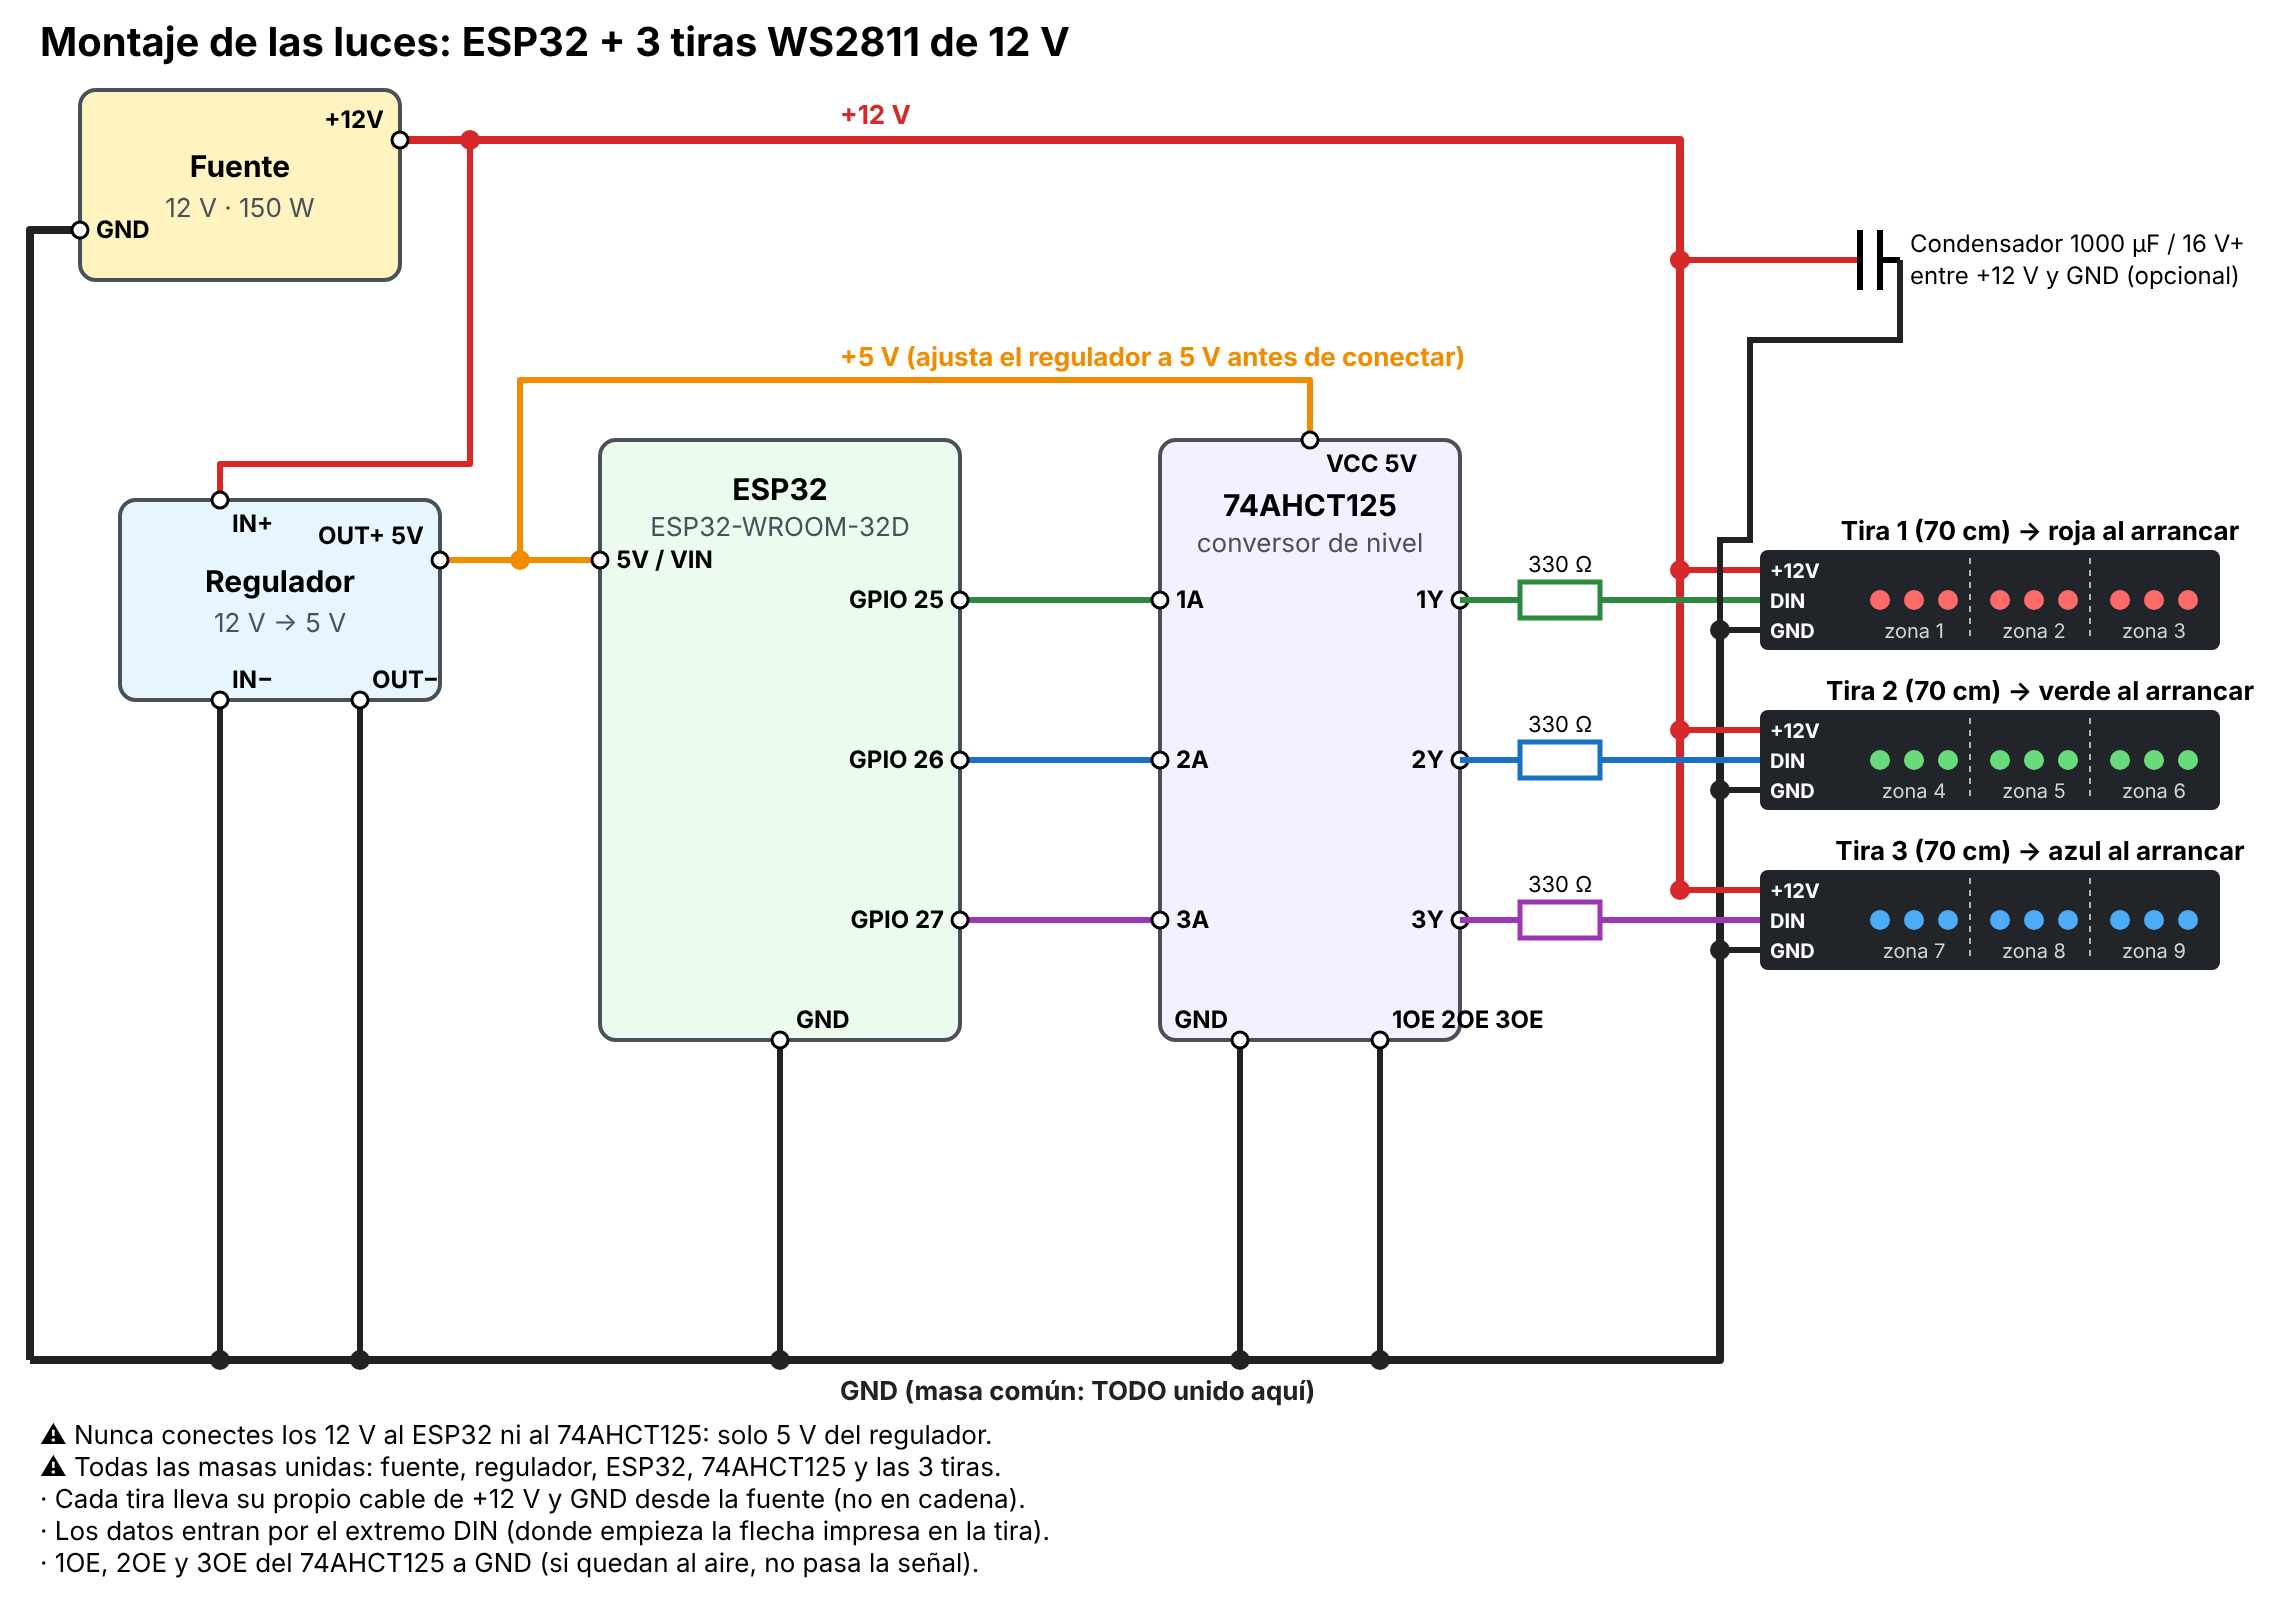
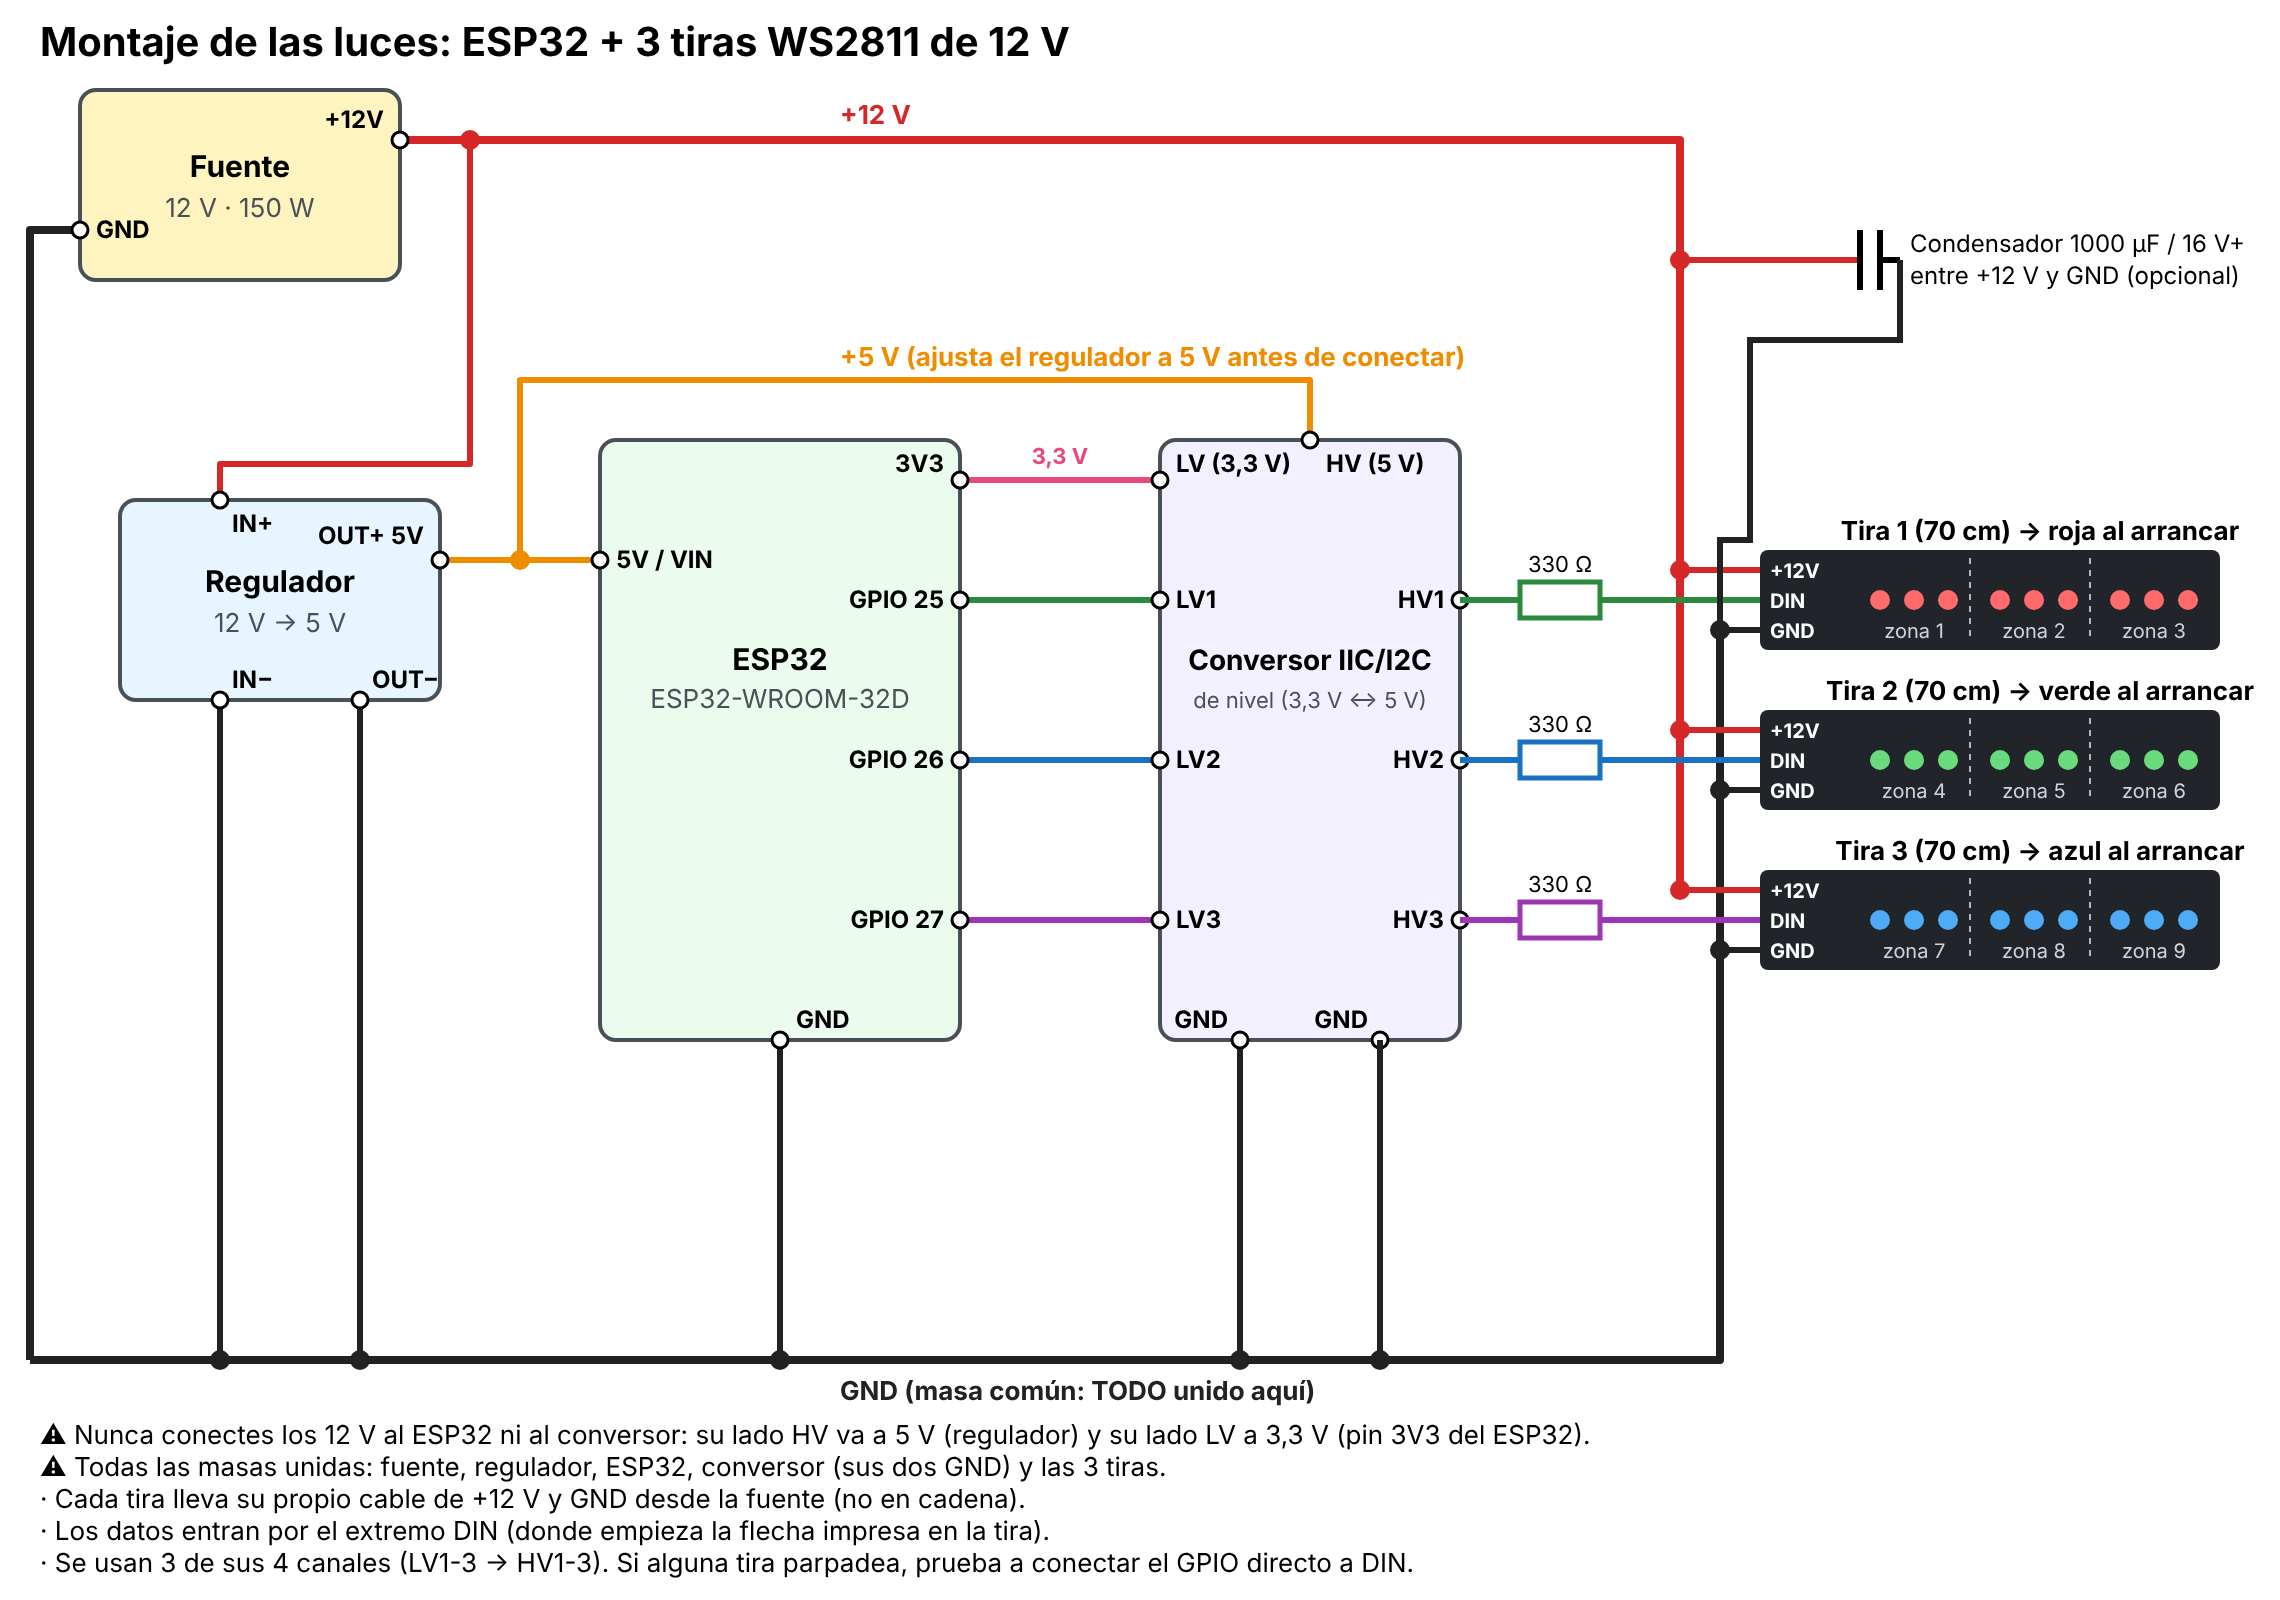
Esquema de montaje con el conversor de nivel IIC/I2C del usuario
Claude-Session: https://claude.ai/code/session_01NiDSfu3hTL4t65WKdkDbuk

diff --git a/CLAUDE.md b/CLAUDE.md
@@ -369,7 +369,7 @@ Trabajar en este orden. Las fases 1 y 2 no necesitan Rekordbox abierto.
 - Que la ruta ANLZ en memoria permite identificar el tema en master.db.
 - Direcciones de faders, EQ de graves, crossfader y deck master para esa versión. Fader del deck 1 hallado como **variable global** dentro de `rekordbox.exe` (`módulo+0x5a876c8`, f64, posición lineal 0..1): no necesita cadena de punteros; **confirmado estable tras reiniciar**. Fader del deck 2 en `módulo+0x5a876d0` (+8 bytes): los faders forman una tabla de f64 contiguos (decks 3 y 4 probablemente en `+0x5a876d8` y `+0x5a876e0`, sin confirmar). Para buscar controles vecinos (crossfader, EQ) se usa `python -m tools.offset_detect --watch DESDE HASTA`. BPM del deck 1 (cadena `0x58d38c8,0x0,0x2b0,0x1a0`) también confirmado tras reiniciar. EQ: tabla global de f64 (0..1, centro 0.5), 3 por deck en orden HI/MID/LOW, 0x18 bytes por deck: deck 1 HI `+0x58b3398`, MID `+0x58b33a0`, LOW `+0x58b33a8`; deck 2 HI `+0x58b33b0`, MID `+0x58b33b8`, LOW `+0x58b33c0` (confirmado con --watch; decks 3-4 previsiblemente LOW `+0x58b33d8` y `+0x58b33f0`, sin comprobar). BPM del deck 2: `0x58d38c8,0x8,0x2b0,0x1a0` (confirmado con `live`). Ruta ANLZ: deck 1 `0x59ff0a8,0x8,0x3f0`, deck 2 `0x59ff0a8,0x10,0x3f0` (lista de decks, 0x8 por deck; decks 3-4 previsiblemente 0x18 y 0x20). La del deck 1 (`0x59ff0a8,0x38,0x3f0`) apuntaba al tema ANTERIOR del deck (Rekordbox guarda ambos); se quitó y el asistente ahora pide volver a cargar el primer tema para distinguir la posición del tema actual. Posición: deck 1 `0x58d38c8,0x0,0x2b0,0x138`, deck 2 `0x58d38c8,0x8,0x2b0,0x138` (mismo objeto que el BPM; hallada con `--anchor bpm` + `--compare-decks`; f64 en segundos, confirmado con `--validate`). En la zona de los faders solo hay faders y gain. **Los faders globales son la posición del fader físico de la controladora**: si se mueven con el ratón o la controladora no está conectada, valen 0. El usuario mezcla siempre con la controladora, así que se da por bueno (no se busca la dirección del fader de pantalla); **confirmado funcionando en la ventana con la controladora**. La app usa la **posición** lineal del fader (no la ganancia logarítmica): `fader_zero_threshold` = 5 % del recorrido.
 - **Deck master: descartado.** El usuario no usa SYNC, así que el master no aporta; para saber qué tema suena se usa el deck con el fader más alto. `is_master` queda como campo opcional (no se avisa si falta).
-- Formato final de los comandos UDP y lista completa de efectos: implementado en la app, el simulador y el firmware (`docs/protocolo_luces.md`). **Firmware compilado, subido a la placa real (driver CP2102, COM3) y recibiendo paquetes UDP de la app.** **Hardware del usuario:** tiras **WS2811 de 12 V**, 70 cm cada una, fuente de 12 V / 150 W (sobra: 3 tiras ≈ 30 W). En WS2811 de 12 V cada chip = 1 píxel de 3 LEDs; el firmware usa `PIXELS_PER_STRIP` (por defecto 14 = 60 LEDs/m; **sin confirmar**) y reparte los píxeles entre las 3 secciones lo más igual posible (14 → 4+5+5). Pines por defecto 25/26/27 (el usuario no los tenía decididos). ESP32 alimentado con conversor 12→5 V, masa común. Falta confirmar nº de píxeles y `COLOR_ORDER` (barrido de arranque) y probar con las tiras. Falta comprobar en real los tipos de frase y la lectura de `PWV7`/`PWV5` con pyrekordbox.
+- Formato final de los comandos UDP y lista completa de efectos: implementado en la app, el simulador y el firmware (`docs/protocolo_luces.md`). **Firmware compilado, subido a la placa real (driver CP2102, COM3) y recibiendo paquetes UDP de la app.** **Hardware del usuario:** tiras **WS2811 de 12 V**, 70 cm cada una, fuente de 12 V / 150 W (sobra: 3 tiras ≈ 30 W). En WS2811 de 12 V cada chip = 1 píxel de 3 LEDs; el firmware usa `PIXELS_PER_STRIP` (por defecto 14 = 60 LEDs/m; **sin confirmar**) y reparte los píxeles entre las 3 secciones lo más igual posible (14 → 4+5+5). Pines por defecto 25/26/27 (el usuario no los tenía decididos). ESP32 alimentado con regulador 12→5 V, masa común; datos por un conversor de nivel IIC/I2C bidireccional (LV 3,3 V / HV 5 V). Esquema en `docs/montaje_luces.png`. Falta confirmar nº de píxeles y `COLOR_ORDER` (barrido de arranque) y probar con las tiras. Falta comprobar en real los tipos de frase y la lectura de `PWV7`/`PWV5` con pyrekordbox.
 - Probar en Windows real: lectura de master.db con la versión de pyrekordbox instalada, ventana PySide6 y `tools/offset_detect` con Rekordbox abierto (el código se ha escrito y probado en Linux con dobles de prueba).
 - Plan B (UI Automation): solo está prevista la interfaz (`live/sources.py`, `DeckSource`); falta decidir la dependencia (`uiautomation` o `pywinauto`) cuando haga falta.
 

diff --git a/esp32/README.md b/esp32/README.md
@@ -31,8 +31,10 @@ ESP32 GPIO 27 ── 330 Ω ── DIN tira 3
 - **No conectes los 12 V al ESP32.** Aliméntalo con un conversor DC-DC (buck) de 12 V a 5 V al pin
   5V/VIN, o por USB mientras pruebas (con la masa unida a la de la fuente igualmente).
 - Los datos entran por el extremo **DIN** de la tira (flecha impresa en la tira).
-- Resistencia de 330 Ω en serie en cada línea de datos, cerca del ESP32. Si una tira parpadea o
-  no responde (el ESP32 da 3,3 V), pon un conversor de nivel 74AHCT125 alimentado a 5 V.
+- Conversor de nivel del usuario: módulo **IIC/I2C bidireccional** (4 canales): LV = 3,3 V (pin 3V3
+  del ESP32), HV = 5 V (regulador), GND común; GPIO 25/26/27 → LV1-3, HV1-3 → 330 Ω → DIN.
+  Es un conversor lento (MOSFET + resistencias de 10 kΩ): suele valer para WS2811 con cables
+  cortos; si alguna tira parpadea, prueba el GPIO directo a DIN o un 74AHCT125.
 - Condensador de 1000 µF (16 V o más) entre +12 V y GND en la entrada de las tiras.
 - En `include/config.h`: `PIXELS_PER_STRIP` (en WS2811 de 12 V, 1 píxel = 1 chip = 3 LEDs;
   70 cm a 60 LEDs/m ≈ 14 píxeles), `COLOR_ORDER` (comprueba con el barrido de arranque: tira 1
